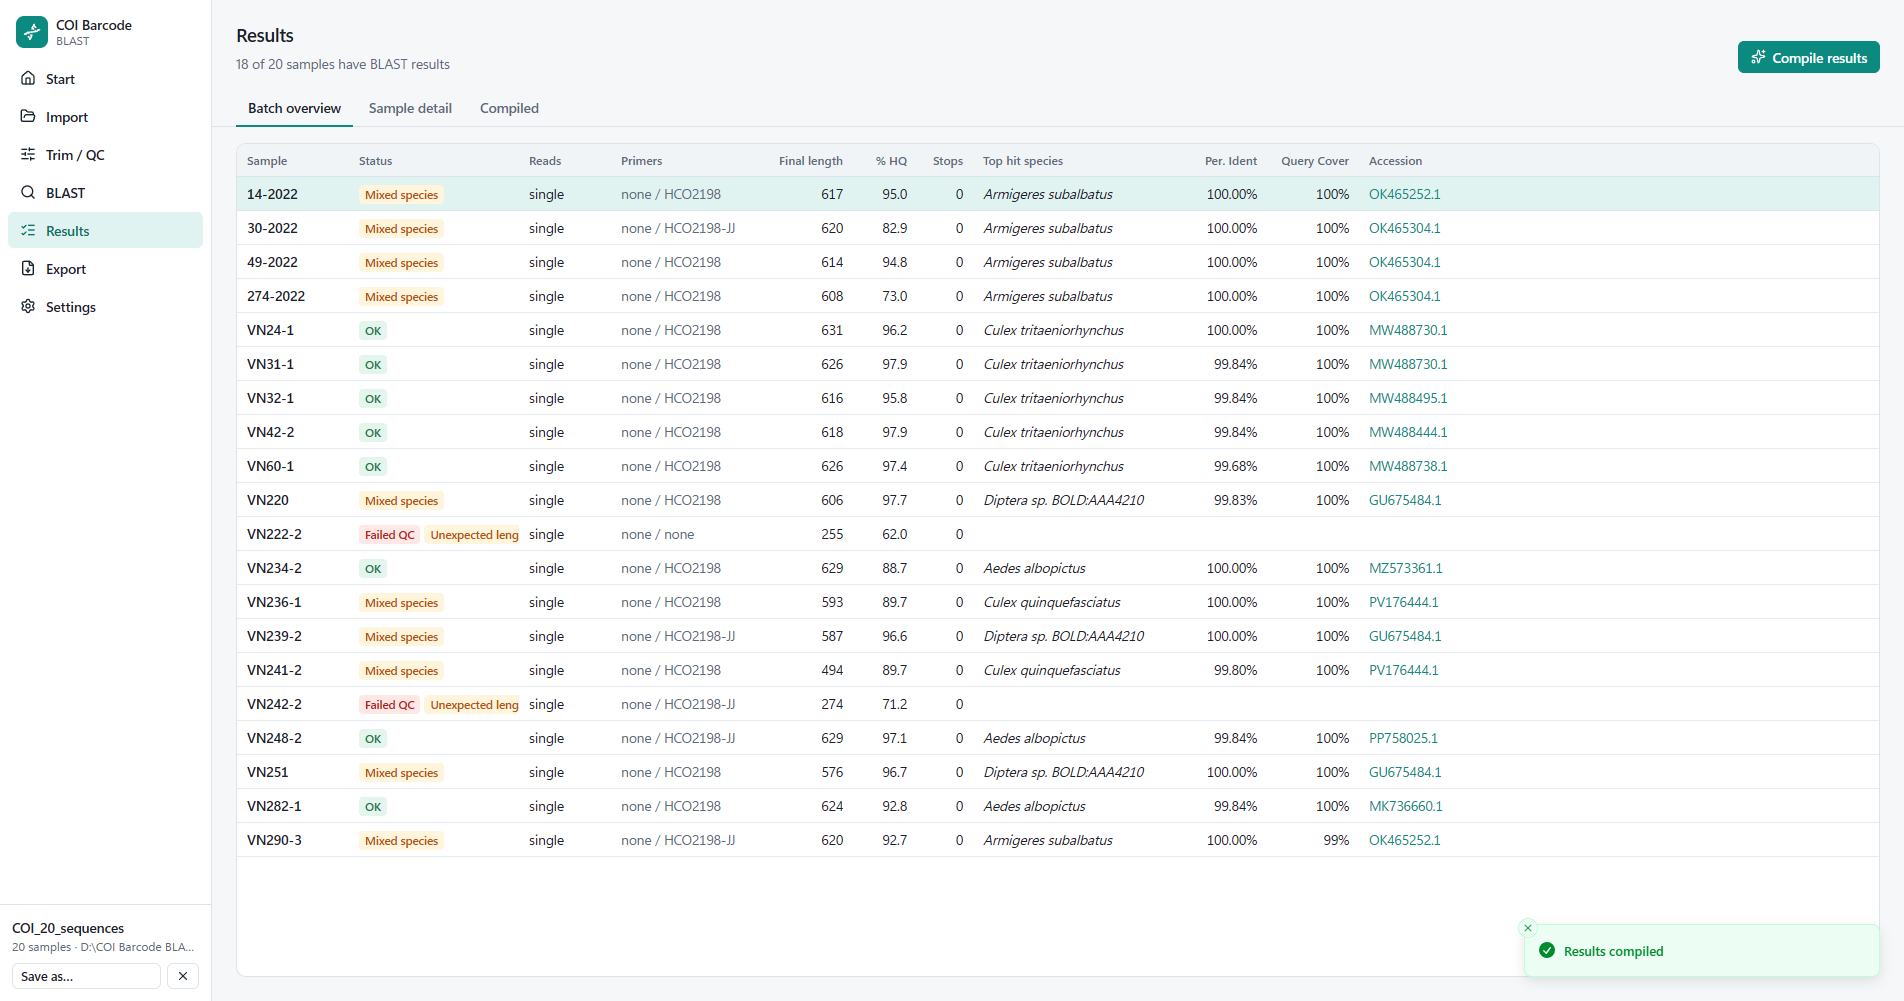
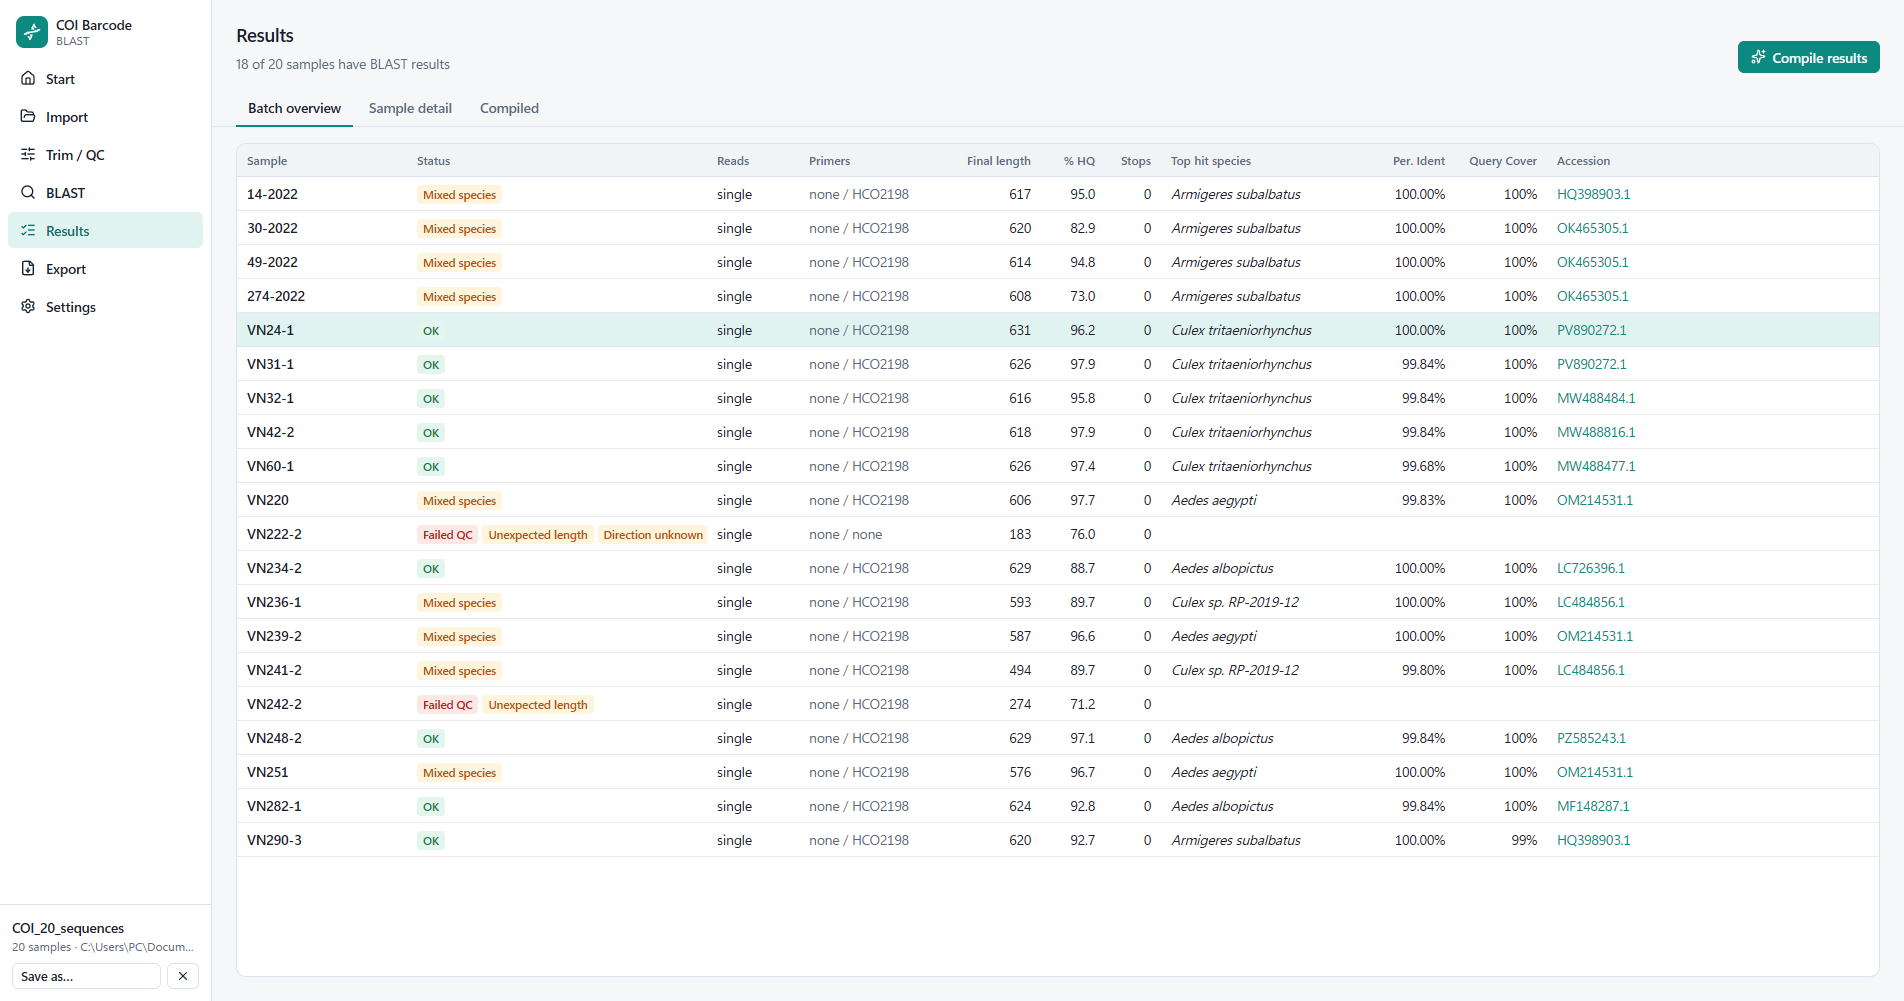
Update README and screenshots
New Start and pairs screenshots, all others retaken with the current
app. Document flexible input, BOLD pair names, the named-species rule,
the evaluate example and nightly releases.

diff --git a/README.md b/README.md
@@ -23,11 +23,19 @@ Main reference: NCBI's open-source tools and APIs at <https://github.com/ncbi>.
 
 ## Highlights
 
-Screenshots use the example batch `COI_20_sequences.zip` (20 mosquito COI traces).
+Screenshots use the example data in `samples/`: `COI_20_sequences.zip` (20 mosquito COI traces) and, for pairs, the BOLD forward/reverse traces in `samples/sangeranalyseR/`.
+
+**Start.** A batch can be a `.zip`, one or more `.ab1` or FASTA files, or a whole folder: choose them, or drop them on the window.
+
+![Start screen: new project from files or a folder, recent projects](screenshots/start.png)
 
 **Import.** Primers are detected automatically for each read, and every trace gets QC stats and a read direction. Reads that fail QC are flagged before anything is sent to NCBI.
 
 ![Import screen: primer auto-detect summary and per-read QC table](screenshots/import.png)
+
+**Forward/reverse pairs.** Reads of the same specimen are suggested as pairs from their names, detected directions and overlap. *Pair all* confirms every suggestion at once; each pair is then searched as one consensus sequence.
+
+![Import screen with 13 suggested forward/reverse pairs from BOLD traces](screenshots/pairs.png)
 
 **Trim / QC.** The chromatogram shows the primer site, the trimmed-off ends and per-base quality. Drag the teal limits to change the kept region; % HQ, length and stop codons update live.
 
@@ -70,18 +78,27 @@ The Rust backend does the heavy work: unpacking, ABIF parsing, trimming, primer 
 
 ## Input
 
-A `.zip` archive of Sanger chromatogram files in ABIF format (`.ab1`), with **up to 1000 samples per batch**. Reads can be:
+Sanger chromatogram files in ABIF format (`.ab1`) and/or FASTA files, with **up to 1000 samples per batch**. A batch can be started from any of these, or a mix of them:
+
+- a `.zip` archive of `.ab1` and/or FASTA files;
+- one or more `.ab1` files;
+- one or more FASTA files;
+- a folder: every `.ab1` and FASTA file in it and its subfolders is read, and zips found there are opened too.
+
+Choose files or a folder on the Start screen, or drag them onto the window. Files that are not `.ab1` or FASTA are listed as *skipped* with the reason, never dropped silently. A file selected twice (for example on its own and again inside its folder) is imported once.
+
+Reads can be:
 
 - **Single reads:** one `.ab1` per sample, sequenced in either direction.
 - **Forward + reverse pairs:** two `.ab1` files per sample, assembled into one consensus sequence before BLAST.
 
 Filenames do not need to say which read is forward or reverse. The app detects each read's direction from its sequence (see step 5).
 
-**FASTA input.** A FASTA file (`.fasta`, `.fas`, `.fa`, `.fna`, `.ffn`, `.seq`) can be imported instead of a zip, and a zip can hold FASTA files alongside `.ab1` files. Each record becomes one sample, named by the first word of its header; the rest of the header is kept as the sample name. FASTA has no quality values, so every base counts as high quality: primers are still found and removed, but there is no quality trim, no chromatogram, and % HQ shows as "—". Gaps (`-`, `.`) and digits are dropped, `U` is read as `T`, and a record with any other non-IUPAC character is listed as *skipped*.
+**FASTA input.** FASTA files (`.fasta`, `.fas`, `.fa`, `.fna`, `.ffn`, `.seq`) can be imported on their own or alongside `.ab1` files, directly, in a folder or in a zip. Each record becomes one sample, named by the first word of its header; the rest of the header is kept as the sample name. FASTA has no quality values, so every base counts as high quality: primers are still found and removed, but there is no quality trim, no chromatogram, and % HQ shows as "—". Gaps (`-`, `.`) and digits are dropped, `U` is read as `T`, and a record with any other non-IUPAC character is listed as *skipped*.
 
-What FASTA cannot give, and why a zip of `.ab1` files is more complete:
+What FASTA cannot give, and why `.ab1` files are more complete:
 
-| | `.zip` of `.ab1` | FASTA |
+| | `.ab1` | FASTA |
 | --- | --- | --- |
 | Quality score per base | Yes | No: every base is taken as correct |
 | HQ trimming of noisy read ends | Yes | No: the whole sequence is kept, minus primers |
@@ -92,7 +109,13 @@ What FASTA cannot give, and why a zip of `.ab1` files is more complete:
 
 The Start screen says this before import, and the Import screen shows a notice whenever a project holds FASTA samples.
 
-Example: `COI_20_sequences.zip` holds 20 COI (cytochrome c oxidase subunit I) barcode reads:
+Example data is in [`samples/`](samples/) (see its README for sources and expected results):
+
+- `samples/COI_20_sequences.zip`: 20 single mosquito COI reads.
+- `samples/sangeranalyseR/`: 13 forward/reverse pairs (26 `.ab1` files) from BOLD, of an earthworm and the fruit fly.
+- `samples/fasta/`: a FASTA file, for trying FASTA import.
+
+`COI_20_sequences.zip` holds 20 COI (cytochrome c oxidase subunit I) barcode reads:
 
 ```
 VN220.ab1     VN222-2.ab1   VN234-2.ab1   VN236-1.ab1   VN239-2.ab1
@@ -234,7 +257,8 @@ Filenames cannot be relied on to say which read is forward and which is reverse.
 - **Put every output in the forward direction.** Reads detected as reverse are reverse-complemented. Every FASTA sequence and export then reads 5'→3' along the COI gene, which is how GenBank and BOLD expect it.
 - **Treat files as single reads by default.** Every file is one sample unless it is paired.
 - **Suggest pairs only with evidence.** Two files are suggested as an F/R pair when:
-  - **their names share a stem with a direction marker:** a separator (`-`, `_`, `.` or space) followed by `F`, `FWD`, `FORWARD`, `LCO`, `LCO1490` or `LepF1`, versus `R`, `REV`, `REVERSE`, `HCO`, `HCO2198` or `LepR1`. Case does not matter. Examples: `S01_F` / `S01_R`, `VN12-LCO` / `VN12-HCO`. A custom pattern in Settings (e.g. `fw,rv`) replaces this list;
+  - **their names share a stem with a direction marker:** a separator (`-`, `_`, `.` or space) followed by `F`, `FWD`, `FORWARD`, `LCO`, `LCO1490` or `LepF1`, versus `R`, `REV`, `REVERSE`, `HCO`, `HCO2198` or `LepR1`. Case does not matter. Examples: `S01_F` / `S01_R`, `VN12-LCO` / `VN12-HCO`. A custom pattern in Settings (e.g. `fw,rv`) replaces this list.
+    BOLD trace names put a read number before the marker (`ACHLO006-09_1_F` / `ACHLO006-09_2_R`). A read left without a match is tried again without that number (1 or 2 digits), but only when exactly one forward and one reverse read share the shorter stem;
   - **their detected directions are opposite;**
   - **their sequences overlap:** at least 50 aligned bases at 90% identity or more.
 
@@ -392,7 +416,7 @@ NCBI shows one query at a time. Since this app handles a whole batch, it adds on
 - stop codon
 - an F/R conflict
 - low identity (e.g. < 97%, a common COI species threshold)
-- mixed species among the top hits: more than one species among hits within 1% identity of the best hit
+- mixed species among the top hits: another named species among hits within 1% identity of the best hit. Placeholder names (*Culicidae sp.*, *Aedes sp.*, BOLD BINs such as *Diptera sp. BOLD:AAA4210*) do not count, because they do not name a competing species
 - too many ambiguous bases
 - *edited*: trim limits were changed by hand
 - *outdated*: the sequence changed after BLAST
@@ -410,12 +434,15 @@ A **Compile results** button on the Results screen answers one question for ever
 2. **Rank by similarity:** the hit with the **highest % identity** wins.
 3. **Break exact ties:**
    1. higher query cover
-   2. higher Max Score
-   3. if still tied, the species backed by more hit records
+   2. a formally named species before a placeholder name (*Culex sp. RP-2019-12*, *Culicidae sp.*, *Aedes cf. albopictus*, BOLD BINs, *uncultured …*)
+   3. higher Max Score
+   4. if still tied, the species backed by more hit records
+
+   Example from the sample data: VN236-1 matches one *Culex sp. RP-2019-12* record and 68 *Culex quinquefasciatus* records, all at 100%. The placeholder record has a slightly higher Max Score, but the answer is *Culex quinquefasciatus*.
 4. **Always one answer.** The app always reports the single highest species, however small the gap to the next one.
-   - The closest *different* species is shown next to it for information only (e.g. *runner-up: Aedes flavopictus, 99.1%*).
+   - The closest *different* named species is shown next to it for information only (e.g. *runner-up: Aedes flavopictus, 99.1%*). A placeholder is shown only when no other named species is among the hits.
    - The runner-up never changes the answer.
-5. **Species name:** taken from the hit's *Scientific Name*. Hits named only to genus (e.g. *Aedes sp.*) are reported exactly as named.
+5. **Species name:** taken from the hit's *Scientific Name*. A hit named only to genus (e.g. *Aedes sp.*) is reported exactly as named when it is strictly closer than every named species: it may be an undescribed or unnamed species.
 
 This ranking can differ from NCBI's own order. NCBI sorts hits by Max Score, so its top hit is not always the one with the highest % identity. Compile ranks by identity, as requested.
 
@@ -477,7 +504,7 @@ For the example batch, the full report is 26 pages and the summary 6.
 
 Each imported batch becomes a **project**, saved as a single `.coiproj` file. It is a zip archive the app manages, and it holds:
 
-- a copy of the original `.ab1` files, so the project still works if the source zip is moved or deleted
+- a copy of the original `.ab1` files, so the project still works if the source files are moved or deleted
 - the settings used for this batch: primers, thresholds, BLAST options
 - every per-read decision: primer positions, trim limits, manual edits, direction, pairs
 - the final FASTA
@@ -492,8 +519,8 @@ Saving is automatic after every change. *File → Open* and a **recent projects*
 
 ## Screens
 
-0. **Start:** create a new project from a `.zip`, or open a recent one.
-1. **Import:** after a `.zip` is chosen, the app shows the file list with:
+0. **Start:** create a new project from a `.zip`, `.ab1` or FASTA files, or a folder (or drop them on the window), or open a recent one.
+1. **Import:** after the files are chosen, the app shows the file list with:
    - per-read stats and QC status
    - the detected direction (F / R / unknown), which can be changed
    - suggested pairs, to confirm or reject
@@ -556,7 +583,7 @@ All 20 example files are single reads, so Phase 1 is everything needed to proces
 
 ## Definition of done (Phase 1)
 
-Phase 1 is done when all of these pass on `COI_20_sequences.zip`:
+Phase 1 is done when all of these pass on `samples/COI_20_sequences.zip`:
 
 1. **Import:** all 20 `.ab1` files parse. Raw length, % HQ and % GC match the Geneious values for the same files (see the reference data under To verify).
 2. **Reference result reproduced:** the reference screenshots show a 638 bp query with **PX112589.1** (*Aedes albopictus* isolate S-7, COX1) as its top hit: Max Score 1175, Query Cover 100%, E value 0.0, 100.00% identity.
@@ -626,11 +653,30 @@ Code layout:
 | `src-tauri/src/export.rs` | Excel, FASTA, raw results |
 | `src-tauri/src/app.rs` | Tauri commands, background BLAST runner, auto-save |
 | `src/screens/` | React screens |
-| `src-tauri/tests/` | Tests against `COI_20_sequences.zip` and a real NCBI response (`tests/fixtures/ncbi_18_samples.json`) |
+| `src-tauri/tests/` | Tests against the data in `samples/` and a real NCBI response (`tests/fixtures/ncbi_18_samples.json`) |
 
 `src-tauri/examples/live_blast.rs` and `reference_check.rs` submit to the real NCBI service, for manual checks.
 
+`src-tauri/examples/evaluate.rs` runs a batch through the whole pipeline as the app does (import, pairs, QC, BLAST, compile) and prints one row per read and per sample, checked against the directions in the file names and the expected species:
+
+```powershell
+cd src-tauri
+cargo run --example evaluate -- ../samples/sangeranalyseR --blast blast-cache.json `
+  --expect "Achl=Allolobophora chlorotica" --expect "Dmel=Drosophila melanogaster"
+```
+
 Setting `COI_BLAST_BASE_URL` points the app at another server instead of NCBI. This is only for testing against a mock server.
+
+### Releases
+
+A nightly GitHub Actions job (`.github/workflows/nightly.yml`, 00:00 UTC+7, or run by hand from the Actions tab) checks whether app code changed since the last `v*` tag. If it did, it:
+
+1. bumps the minor version in `package.json`, `src-tauri/Cargo.toml` and `src-tauri/tauri.conf.json` (or releases the version already there if it was never tagged);
+2. adds the commits since the last release to `CHANGELOG.md`;
+3. runs the frontend and backend tests, then builds the app;
+4. commits, tags `vX.Y.0`, pushes to `main`, and publishes a GitHub release with the installer (`…_x64-setup.exe`) and a portable `.exe`.
+
+Changes to docs, samples or screenshots alone do not trigger a release.
 
 ## Status (Phase 1)
 
@@ -652,6 +698,6 @@ Setting `COI_BLAST_BASE_URL` points the app at another server instead of NCBI. T
 
 | Item | Status |
 |------|--------|
-| Forward/reverse pairs | Done. Tested on a realistic pair built from VN234-2's real trace (`tests/pairs_flow.rs`, `examples/make_pair_zip.rs`). Results: the pair is suggested; the consensus is 654 bp versus 629 bp for the forward read alone; there is no primer and no conflict; the reverse read is not searched on its own; edits flow into the consensus; swap and unpair work; reads that don't overlap wait for a choice. In the app: suggestion, confirm, Trim/QC banner and consensus all checked. **Not yet tested on real forward/reverse files from the lab.** |
+| Forward/reverse pairs | Done. Tested on a realistic pair built from VN234-2's real trace (`tests/pairs_flow.rs`, `examples/make_pair_zip.rs`), and on **13 real forward/reverse pairs from BOLD** (`samples/sangeranalyseR/`, `tests/flexible_import.rs`): every read's direction is detected correctly, all 13 pairs are suggested and none crosses specimens, consensus 471–658 bp with no stop codon, and NCBI BLAST names the right species for 13 of 13 (*Allolobophora chlorotica* 99.8–100%, *Drosophila melanogaster* 99.8–100%). See `samples/README.md` |
 | PDF report | Done. Summary and full report for the example batch with real NCBI results; pages checked visually; export from the app works |
 | BOLD search | Dropped: no public identification API (step 8) |
